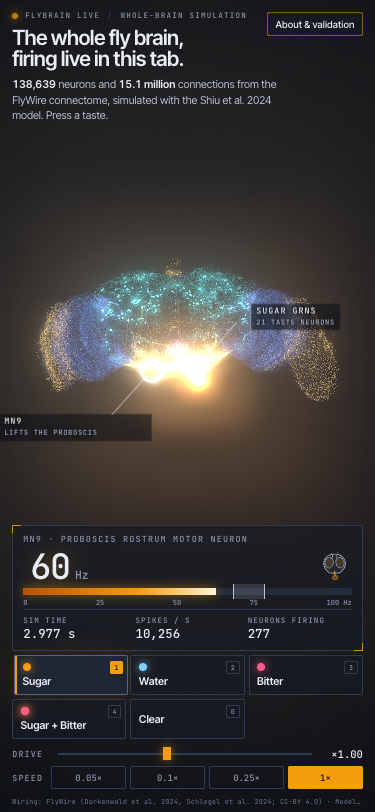
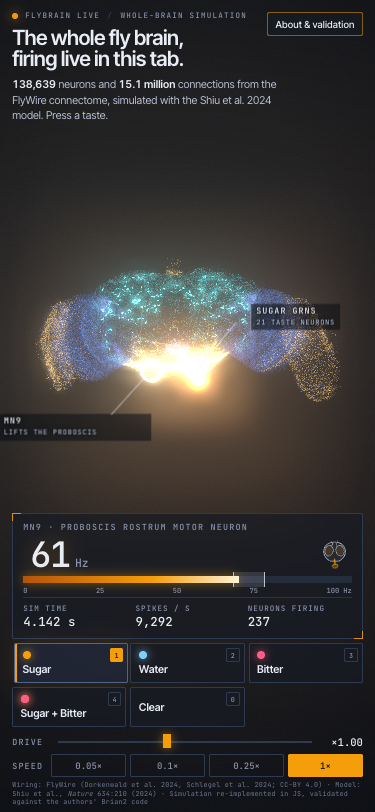
Worker loop runs back-to-back when behind; in-page speed benchmark; README/POST speed claims from measurements

diff --git a/site/app.js b/site/app.js
@@ -89,6 +89,7 @@ function onWorker(e) {
     else if (m.phase === 'decode') setLoading('Wiring up 15.1 million synapses…', 0.86, 'decoding on a background thread');
   } else if (m.type === 'ready') {
     state.ready = true;
+    window.__fb = { N: m.N, E: m.E, graphBytes: m.bytes };
     setLoading('Ready', 1);
     $('#loading').classList.add('done'); setTimeout(() => { $('#loading').style.display = 'none'; }, 900);
     document.querySelectorAll('.key').forEach(b => { b.disabled = false; });

diff --git a/site/worker.js b/site/worker.js
@@ -86,8 +86,11 @@ function loop() {
       emit({});
     }
   }
-  setTimeout(loop, 8);
+  // when the engine is behind the requested playback speed, go again at once; otherwise idle ~8 ms between ticks
+  if (stepDebt >= 1 && !paused) tick.port2.postMessage(0); else setTimeout(loop, 8);
 }
+const tick = new MessageChannel();
+tick.port1.onmessage = () => loop();
 
 self.onmessage = async (e) => {
   const m = e.data;

diff --git a/tools/build_readme.py b/tools/build_readme.py
@@ -9,7 +9,7 @@ R = ROOT / "results"
 J = lambda p: json.loads((R / p).read_text())
 
 sizes = J("data_sizes.json"); speed = J("engine_speed.json"); eps = J("epsilon_study.json"); rep = J("replay_summary.json")
-v783 = J("validation_js_vs_brian2_783.json"); v630 = J("validation_js_vs_brian2_630.json"); lite = J("validation_jslite_vs_brian2_783.json"); spread = J("responder_spread.json")
+v783 = J("validation_js_vs_brian2_783.json"); v630 = J("validation_js_vs_brian2_630.json"); lite = J("validation_jslite_vs_brian2_783.json"); spread = J("responder_spread.json"); bspeed = J("browser_speed.json")
 auth = J("validation_vs_authors_v630.json"); paper = J("paper_numbers.json"); smoke = J("page_smoke.json"); nt = J("nt_sign_check.json")
 b2 = lambda g, c: J(f"reference/brian2_{g}_{c}.json"); jsr = lambda g, c: J(f"reference/js_{g}_{c}.json")
 f1 = lambda x: f"{x:,.1f}"; f0 = lambda x: f"{x:,.0f}"
@@ -188,9 +188,18 @@ Engine speed, whole brain, Node/V8 on {speed['machine']['cpu']} ({speed['machine
 |---|---|---|---|
 {chr(10).join(sp_rows)}
 
-Real-time factor = simulated seconds per wall second; the page's default playback is 0.1x. In headless Edge the page held {k['headless_fps_during_cascade']:.0f} fps during a cascade and its worker reported
-"{k['sugar_after_8s']['engine']}" at 1x playback (`tools/smoke_page.mjs`, `results/page_smoke.json`). Smoke test result: sugar gave MN9 {k['sugar_after_8s']['mn9_hz']:.0f} Hz after ~8 s,
-sugar + bitter gave {k['sugar_plus_bitter_after_7s']['mn9_hz']:.0f} Hz, no console errors, no horizontal scroll at 375 px.
+Real-time factor = simulated seconds per wall second; the page's default playback is 0.1x.
+
+Inside the real page (module worker + WebGL rendering on the main thread, headless Edge, playback requested at 4x so the engine is the bottleneck; `tools/bench_browser.mjs`),
+load average {bspeed['machine']['loadavg_at_start'][0]:.0f} on {bspeed['machine']['cores']} cores at the start (the machine was shared with other jobs):
+
+| stimulus | achieved simulated seconds per wall second | engine's own readout (median / max) |
+|---|---|---|
+{chr(10).join(f"| {c} | {r['achieved_x_real_time']:.2f}x | {r['engine_readout_median']}x / {r['engine_readout_max']}x |" for c, r in bspeed['runs'].items())}
+
+So the page sustains roughly real time or better under load, well above the 0.1x playback it uses by default, and faster on a quiet machine (the first smoke run, quieter, reported 1.8x).
+`tools/smoke_page.mjs` / `results/page_smoke.json`: {k['headless_fps_during_cascade']:.0f} fps in headless Edge during a cascade; sugar gave MN9 {k['sugar_after_8s']['mn9_hz']:.0f} Hz after ~8 s at 1x playback
+(engine readout "{k['sugar_after_8s']['engine']}" at that moment), sugar + bitter gave {k['sugar_plus_bitter_after_7s']['mn9_hz']:.0f} Hz, no console errors, the graph in the page had N = {k['engine_graph']['N']:,} neurons and E = {k['engine_graph']['E']:,} connections, no horizontal scroll at 375 px.
 
 ### The lite graph (optional)
 
@@ -227,7 +236,7 @@ Nothing depends on the wall clock, so the video is reproducible. The ~1080x1080 
 * Sugar 100 Hz is the paper's calibration point. Water 200 Hz and Bitter 200 Hz are our picks from the dose-response, not the paper's.
 * Brian2 here is 2.10.1 (the paper used 2.5.1); the validation is against the authors' model code, not their 2.5.1 binaries. The sugar-10 Hz condition misses one correlation criterion (see above).
 * "Cascade lines" show the last excitatory sender before each spike (within 15 ms): plausible cause, not proof. Positions are neuron backbone anchor points (`?pos=soma` for cell bodies); sensory neurons have no cell body in the volume.
-* Playback is slowed down for viewing; the speed table is what the engine sustains on one laptop core under load.
+* Playback is slowed down for viewing; the speed tables are what the engine sustains on one laptop (a single worker thread) while the machine was busy with other jobs, so they are lower bounds for a quiet laptop.
 
 ## Reproduce
 
@@ -240,7 +249,7 @@ python reference/replay_brian2.py --graph 783 --cond sugar_100 --seed 123   # de
 python tools/prepare_data.py                          # site/data/* and sizes (~6 min)
 npm test                                              # engine tests incl. full-network replays (~1 min)
 node tools/validate_engine.mjs --graph 783 --conds all --trials 30          # JS vs Brian2 (+ --graph 630 after tools/pack_graph.py 630 tmp/graph_630.fbg.gz)
-node tools/epsilon_study.mjs && node tools/replay_check.mjs && node tools/bench_engine.mjs
+node tools/epsilon_study.mjs && node tools/replay_check.mjs && node tools/bench_engine.mjs && node tools/bench_browser.mjs && node tools/responder_spread.mjs
 python reference/compare_authors_v630.py && python tools/build_page_data.py
 node tools/capture.mjs --out media/flybrain-1080x1350.mp4 && node tools/capture.mjs --hero media/hero.png --dpr 2
 node tools/smoke_page.mjs && python tools/build_readme.py

diff --git a/README.md b/README.md
@@ -170,9 +170,20 @@ Engine speed, whole brain, Node/V8 on Apple M4 (10 cores), eps = 1e-7 V, 5 s per
 | sugar_100__water_100 | 1.52x (1.17-1.57) | 15,058 | 12,206 |
 | water_260 | 1.53x (1.23-1.82) | 10,268 | 8,802 |
 
-Real-time factor = simulated seconds per wall second; the page's default playback is 0.1x. In headless Edge the page held 53 fps during a cascade and its worker reported
-"1.8× real time · playing 1×" at 1x playback (`tools/smoke_page.mjs`, `results/page_smoke.json`). Smoke test result: sugar gave MN9 63 Hz after ~8 s,
-sugar + bitter gave 0 Hz, no console errors, no horizontal scroll at 375 px.
+Real-time factor = simulated seconds per wall second; the page's default playback is 0.1x.
+
+Inside the real page (module worker + WebGL rendering on the main thread, headless Edge, playback requested at 4x so the engine is the bottleneck; `tools/bench_browser.mjs`),
+load average 12 on 10 cores at the start (the machine was shared with other jobs):
+
+| stimulus | achieved simulated seconds per wall second | engine's own readout (median / max) |
+|---|---|---|
+| sugar | 0.91x | 0.9x / 1.1x |
+| water | 1.12x | 1.1x / 1.4x |
+| sugar+bitter | 1.42x | 1.4x / 1.6x |
+
+So the page sustains roughly real time or better under load, well above the 0.1x playback it uses by default, and faster on a quiet machine (the first smoke run, quieter, reported 1.8x).
+`tools/smoke_page.mjs` / `results/page_smoke.json`: 51 fps in headless Edge during a cascade; sugar gave MN9 68 Hz after ~8 s at 1x playback
+(engine readout "0.9× real time · playing 1×" at that moment), sugar + bitter gave 0 Hz, no console errors, the graph in the page had N = 138,639 neurons and E = 15,091,983 connections, no horizontal scroll at 375 px.
 
 ### The lite graph (optional)
 
@@ -213,7 +224,7 @@ Nothing depends on the wall clock, so the video is reproducible. The ~1080x1080 
 * Sugar 100 Hz is the paper's calibration point. Water 200 Hz and Bitter 200 Hz are our picks from the dose-response, not the paper's.
 * Brian2 here is 2.10.1 (the paper used 2.5.1); the validation is against the authors' model code, not their 2.5.1 binaries. The sugar-10 Hz condition misses one correlation criterion (see above).
 * "Cascade lines" show the last excitatory sender before each spike (within 15 ms): plausible cause, not proof. Positions are neuron backbone anchor points (`?pos=soma` for cell bodies); sensory neurons have no cell body in the volume.
-* Playback is slowed down for viewing; the speed table is what the engine sustains on one laptop core under load.
+* Playback is slowed down for viewing; the speed tables are what the engine sustains on one laptop (a single worker thread) while the machine was busy with other jobs, so they are lower bounds for a quiet laptop.
 
 ## Reproduce
 
@@ -226,7 +237,7 @@ python reference/replay_brian2.py --graph 783 --cond sugar_100 --seed 123   # de
 python tools/prepare_data.py                          # site/data/* and sizes (~6 min)
 npm test                                              # engine tests incl. full-network replays (~1 min)
 node tools/validate_engine.mjs --graph 783 --conds all --trials 30          # JS vs Brian2 (+ --graph 630 after tools/pack_graph.py 630 tmp/graph_630.fbg.gz)
-node tools/epsilon_study.mjs && node tools/replay_check.mjs && node tools/bench_engine.mjs
+node tools/epsilon_study.mjs && node tools/replay_check.mjs && node tools/bench_engine.mjs && node tools/bench_browser.mjs && node tools/responder_spread.mjs
 python reference/compare_authors_v630.py && python tools/build_page_data.py
 node tools/capture.mjs --out media/flybrain-1080x1350.mp4 && node tools/capture.mjs --hero media/hero.png --dpr 2
 node tools/smoke_page.mjs && python tools/build_readme.py

diff --git a/POST.md b/POST.md
@@ -8,7 +8,7 @@ All 138,639 neurons and 15.1 million connections of the FlyWire connectome, runn
 
 It is not a lookalike. Given identical inputs it reproduces all 44,328 spikes of the authors' own Brian2 code, and over 30 trials MN9 agrees with the reference within noise (67.1 vs 68.7 Hz).
 
-It runs faster than real time on a laptop.
+It runs at about real time in a browser tab on a laptop.
 
 ## Alternative hooks
 
@@ -25,6 +25,6 @@ It runs faster than real time on a laptop.
 | MN9 about 67 Hz, 67.1 vs 68.7 Hz, 30 trials | `results/reference/js_783_sugar_100.json`, `results/reference/brian2_783_sugar_100.json`, `results/validation_js_vs_brian2_783.json` |
 | bitter makes it fall to zero | `results/reference/js_783_sugar_100__bitter_200.json` (0.1 Hz, Brian2 0.1 Hz) |
 | all 44,328 spikes reproduced | `results/replay_summary.json` (`tools/replay_check.mjs`, `reference/replay_brian2.py`) |
-| faster than real time | `results/engine_speed.json`: medians 2.44x to 3.62x for the four demo stimuli (M4, machine shared with other jobs) |
+| about real time in a tab | `results/browser_speed.json`: 0.9x to 1.4x in the page for sugar, water, sugar + bitter; `results/engine_speed.json`: 2.4x to 3.6x in Node for the four demo stimuli (M4, machine shared with other jobs) |
 
 Attach `media/flybrain-1080x1350.mp4`, or `media/hero.png` as the still. Link to the page only after it is deployed (not done: no publishing in this build).
